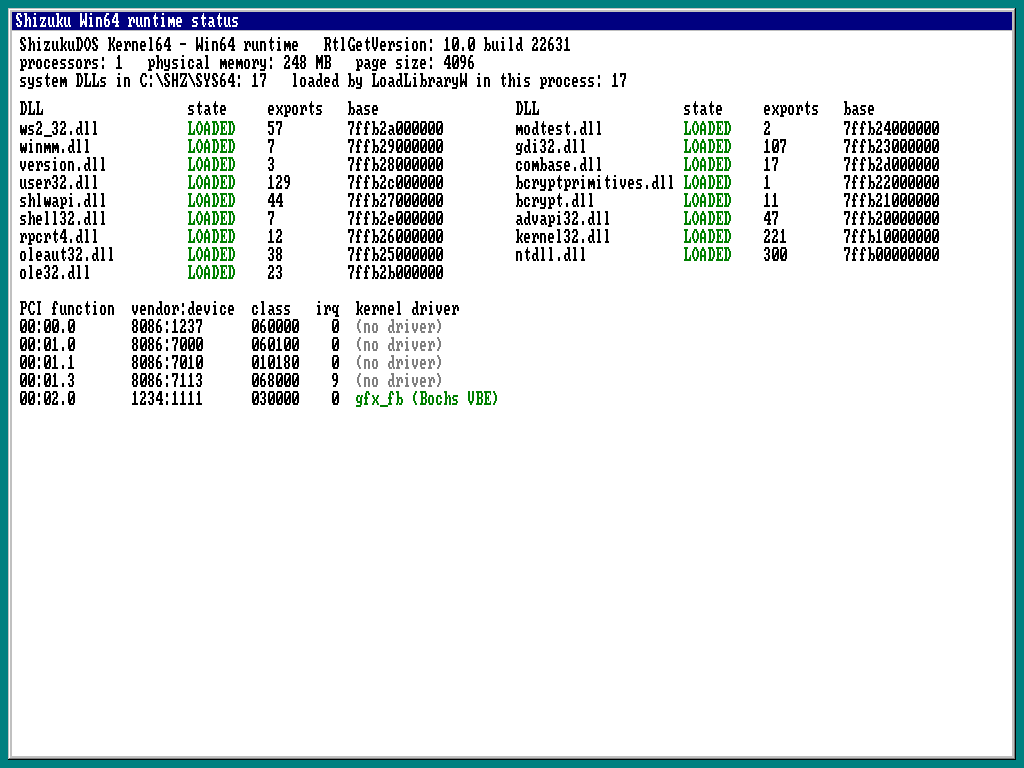
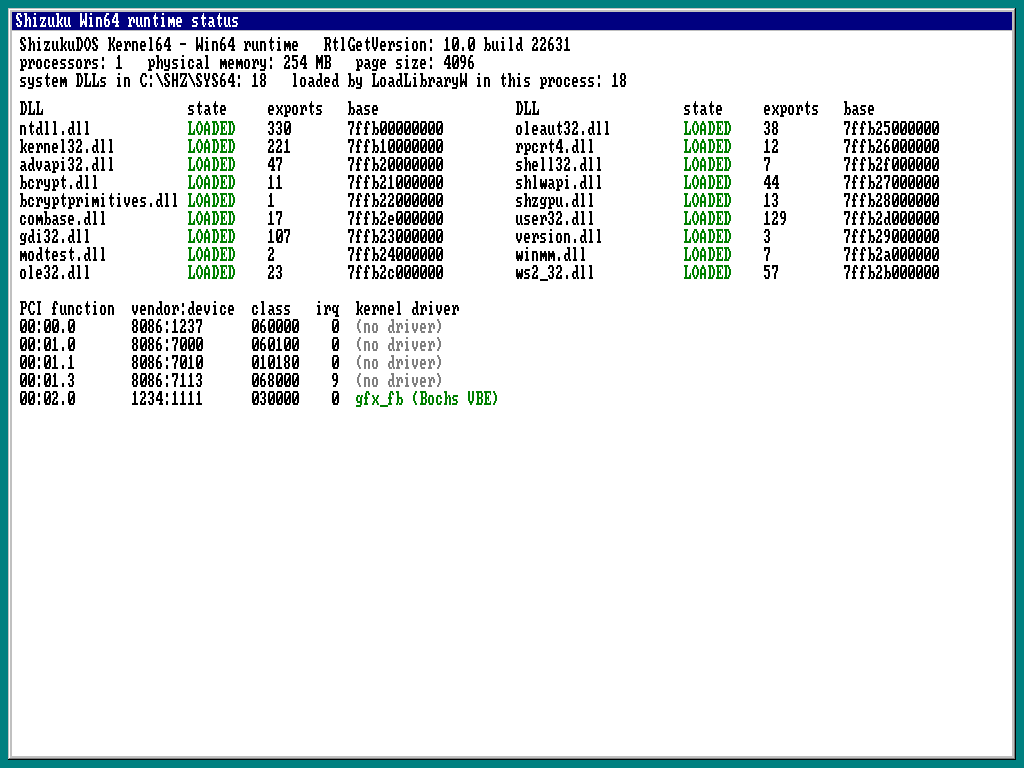
test_bootmgr: screendump every GUI scene of the Kernel64 boot cases; UEFI screenshots
The UEFI kernel64 case pauses the VM at each GUI-READY marker, takes a QMP screendump and keeps
PPM + PNG in the case's run directory (listed in result.json). New screenshots: the runtime status
screen after a UEFI boot through the Shizuku boot manager (OVMF, BOOT.INI mode=kernel64), the
virtio-gpu variant, and T_GPU_2D.

Claude-Session: https://claude.ai/code/session_01AHHXMseAQefjAfcUCErzWc

diff --git a/shizukudos/supervisor/test_bootmgr.py b/shizukudos/supervisor/test_bootmgr.py
@@ -494,6 +494,17 @@ def k64_checks(name, text, qemu_rc, case, apps):
     return checks
 
 
+def save_png(ppm):
+    """PNG next to the PPM screendump when Pillow is installed; returns the path kept."""
+    try:
+        from PIL import Image
+    except ImportError:
+        return ppm
+    png = ppm.with_suffix(".png")
+    Image.open(ppm).save(png)
+    return png
+
+
 def run_case(case, base_disk, args, session, apps):
     name = case["name"]
     run_dir = Path(tempfile.mkdtemp(prefix=f"{name}-", dir=session))
@@ -545,11 +556,27 @@ def run_case(case, base_disk, args, session, apps):
         proc = qemu.launch(command, run_dir)
         qmp = None
         screen, regs, outcome = [], "", "timeout"
+        shots, shot_at = [], 0
         try:
             qmp = qemu.QMP(sock, timeout=30)
             deadline = started + case.get("timeout", args.timeout)
             while time.time() < deadline and proc.poll() is None:
                 text = serial.read_bytes() if serial.exists() else b""
+                if case["expect"] == K64_RUN:
+                    # every GUI scene the Win64 test programs show: pause, dump the real screen, resume
+                    for m in re.finditer(rb"GUI-READY: (\S+)\r?\n", text[shot_at:]):
+                        scene = m.group(1).decode(errors="replace")
+                        ppm = run_dir / f"shot-{scene}.ppm"
+                        try:
+                            qmp.call("stop")
+                            try:
+                                qmp.call("screendump", {"filename": str(ppm)})
+                            finally:
+                                qmp.call("cont")
+                            shots.append(save_png(ppm))
+                        except Exception as exc:   # a missed picture is reported, never fatal to the boot case
+                            rec.setdefault("screenshot_errors", []).append(f"{scene}: {exc!r}")
+                    shot_at = text.rfind(b"\n") + 1           # only whole lines are consumed
                 if b"SHZ-EXIT:" in text:
                     outcome = "k64-exit" if case["expect"] == K64_RUN else "dos-exit"
                     time.sleep(1.0)            # let the guest reach its final HLT / QEMU finish isa-debug-exit
@@ -587,6 +614,7 @@ def run_case(case, base_disk, args, session, apps):
             except Exception:
                 proc.kill()                        # only the QEMU this harness started
                 proc.wait(timeout=20)
+        rec["screenshots"] = [str(x) for x in shots]
         rec["seconds"] = round(time.time() - started, 1)
         rec["outcome"] = outcome
         rec["qemu_rc"] = qemu_rc

diff --git a/docs/shizukudos10/screenshots/README.md b/docs/shizukudos10/screenshots/README.md
@@ -1,13 +1,17 @@
 # Screenshots
 
 Real QEMU `screendump`s, not mock-ups. They are taken by `shizukudos/tests/run_k64_gui.py --png` on the Kernel64
-standalone profile (QEMU TCG, Bochs VBE 1024x768, no Supervisor, no VMX). The runner compares each scene with a
+standalone profile (QEMU TCG, Bochs VBE 1024x768, no Supervisor, no VMX), and by `supervisor/test_bootmgr.py`
+(every `GUI-READY` scene of a Kernel64 boot case is dumped while the VM is paused). The runner compares each scene with a
 host-computed expectation before the image is kept.
 
 | File | Scene | What it shows |
 |---|---|---|
 | `k64-status.png` | `status` (T_GUI_STATUS) | Every system DLL in `C:\SHZ\SYS64` loaded by `LoadLibraryW` in one process, the first named export of each resolved; `RtlGetVersion`, processor count and physical memory as the process sees them; every PCI function with the kernel driver bound to it |
 | `k64-window.png` | `window` (T_GUI_WINDOW) | user32 window with the kernel compositor's frame and a GDI-painted client area |
+| `k64-status-virtio.png` | `status`, `run_k64_gui.py --display virtio` | the same screen driven by the paravirtual virtio-gpu backend (`gfx_virtio`) |
+| `uefi-k64-status.png` | `status` under `supervisor/test_bootmgr.py --case kernel64` | **UEFI boot**: OVMF (q35) → Shizuku boot manager `BOOT.INI mode=kernel64` → Kernel64 direct boot → the status screen (18 DLLs loaded) |
+| `uefi-k64-gpu2d.png` | `gpu2d-b` in the same UEFI boot | T_GPU_2D after a 32x16 partial update |
 | `k64-gdi.png` | `gdi` (T_GUI_GDI) | GDI blits, stretching, text, clipping, polygons, ellipse |
 
 Not shown because it does not run yet: Chromium, Electron, Discord, Steam, Windows 98 itself, NT kernel drivers.
